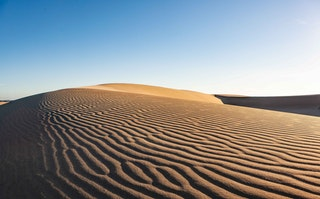
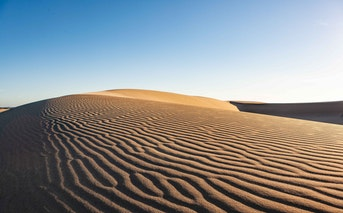
HW
Final

diff --git a/Module8/HomeWork/style.css b/Module8/HomeWork/style.css
@@ -8,12 +8,15 @@ body {
   padding: 50px;
   font-family: "PT Sans", sans-serif;
 }
-/*.fullview>.hide{
+.fullview{
+  text-align: center;
+}
+.fullview>.hide{
   display: none;
-}*/
+}
 .fullview>img{
-  max-width: 100%;
-  max-height: 100%;
+  max-width: 50%;
+  max-height: 50%;
   background-color: gray;
 }
 ul.preview>li{
